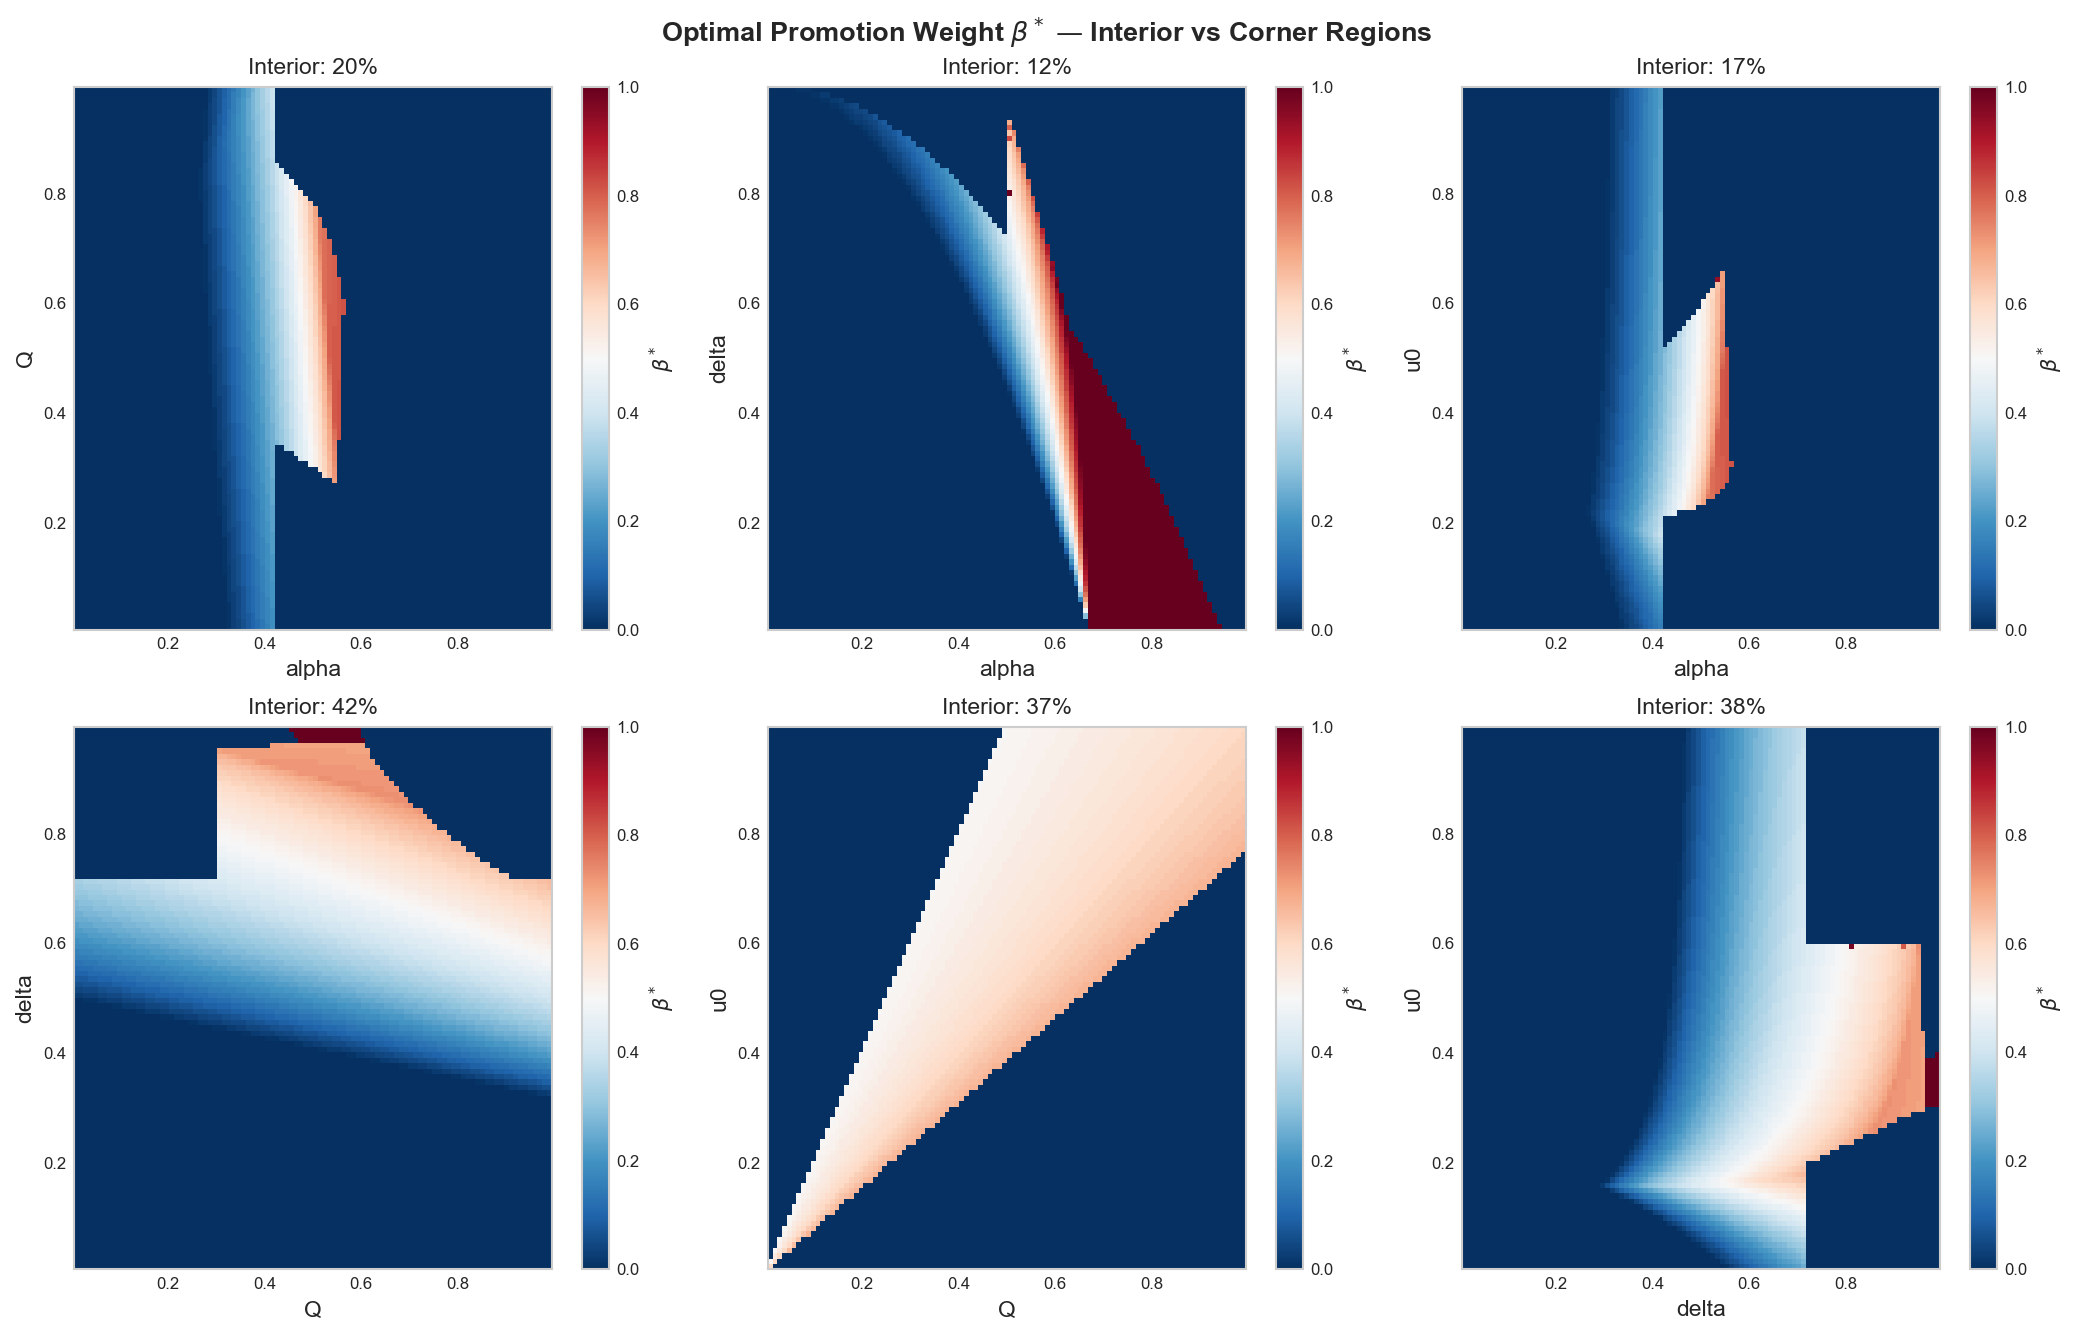
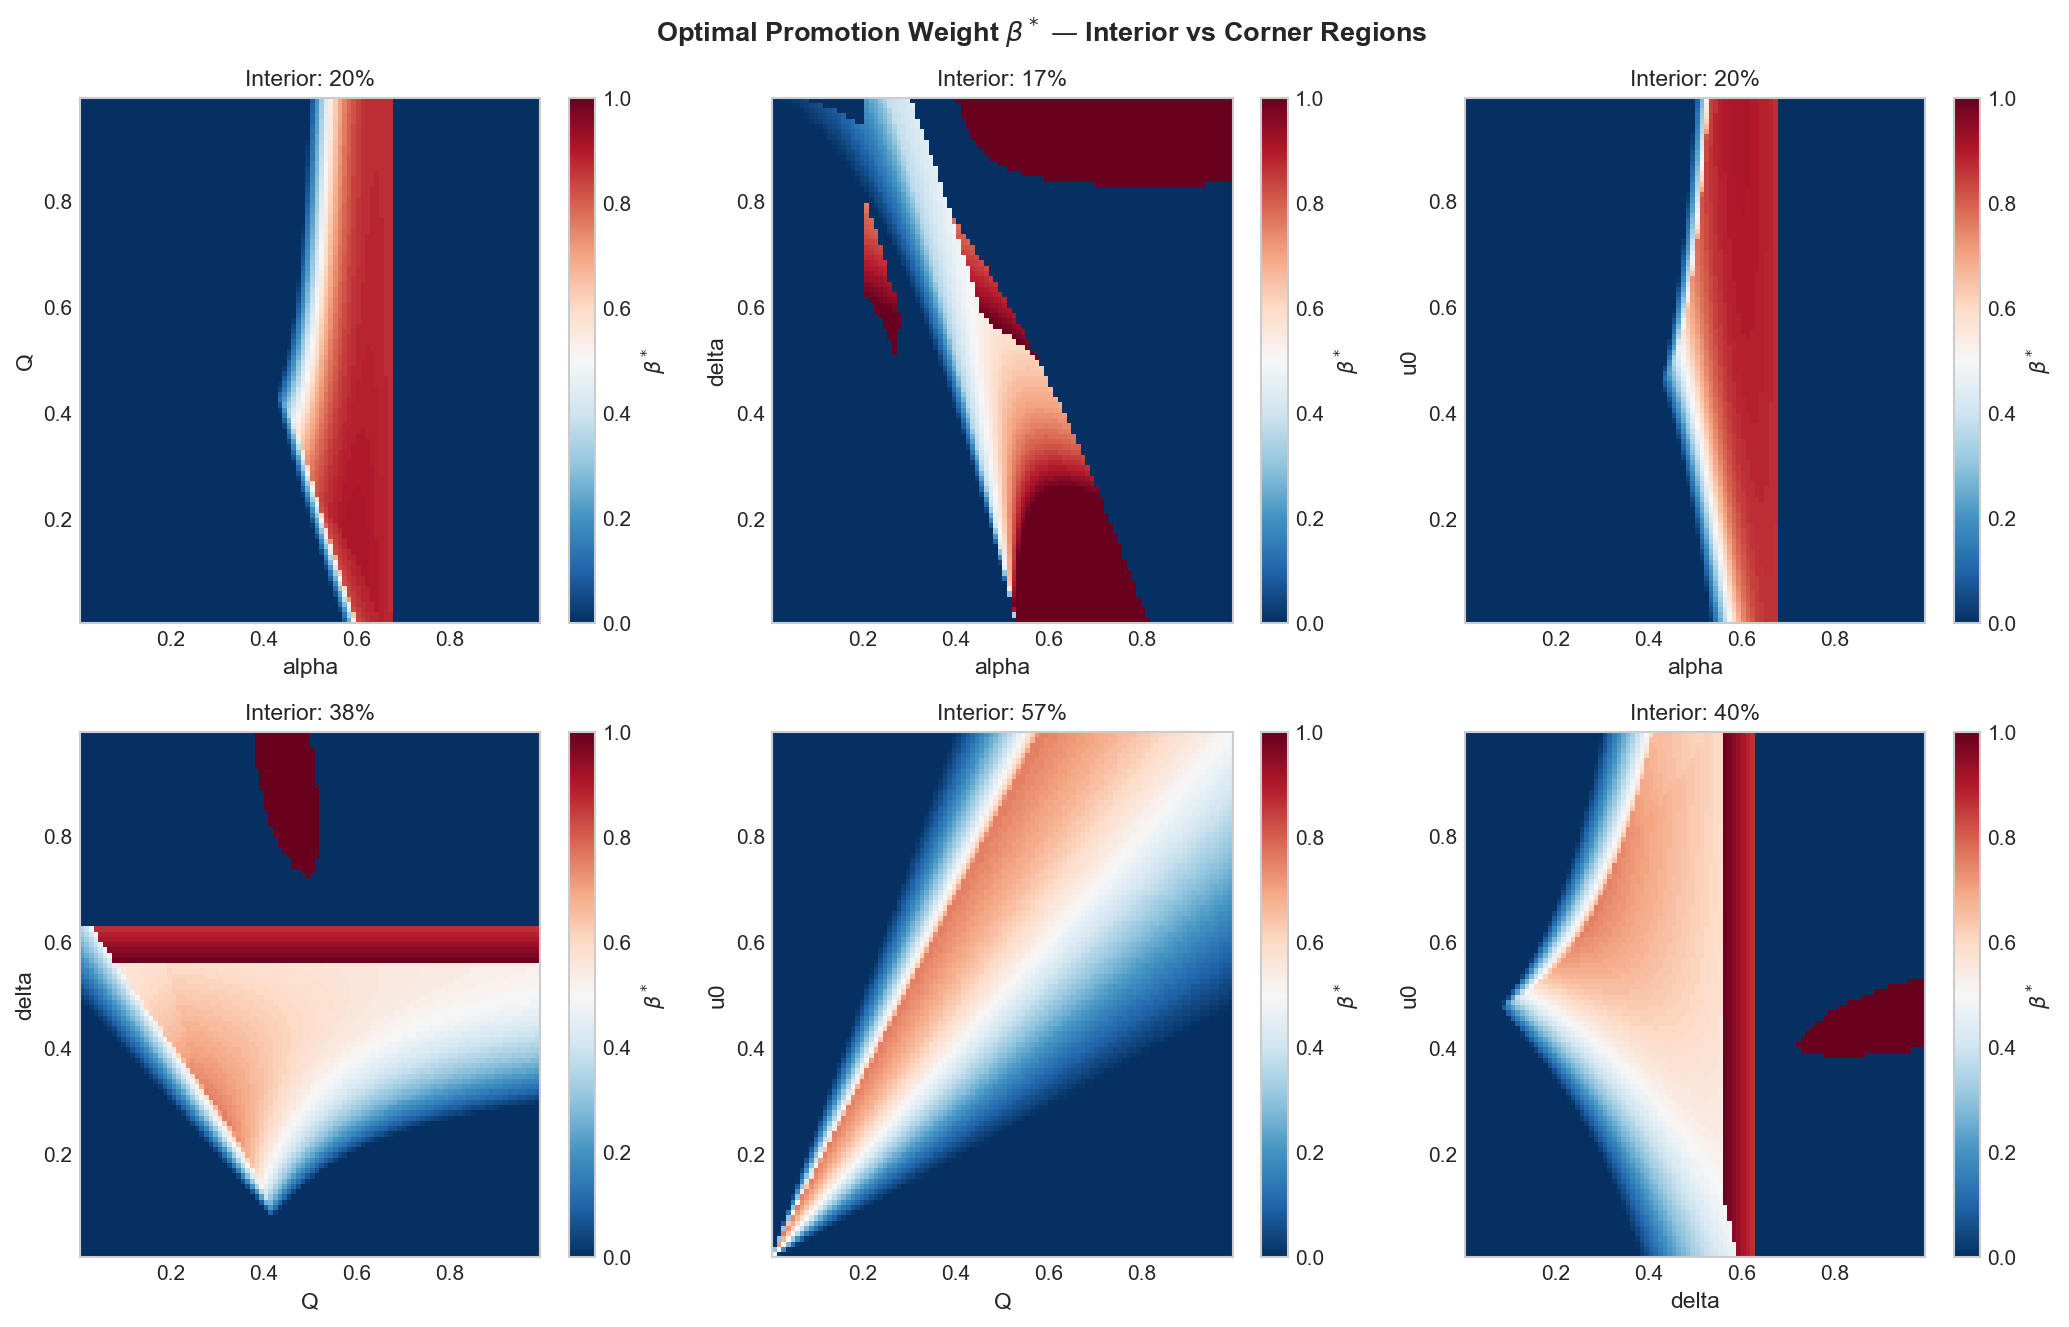
good

diff --git a/params.py b/params.py
@@ -5,8 +5,8 @@ Keys match the keyword arguments of model.platform_utility_vec.
 
 BASELINE = {
     'alpha': 0.5,   # AI learning efficiency
-    'Q':     0.3,   # AI baseline content quality
-    'delta': 0.8,   # Platform algorithmic sensitivity
-    'u0':    0.6,   # Consumer outside option
-    't':     10.0,   # Consumer transportation cost (held fixed)
+    'Q':     0.4,   # AI baseline content quality
+    'delta': 0.3,   # Platform algorithmic sensitivity
+    'u0':    0.5,   # Consumer outside option
+    't':     3.0,   # Consumer transportation cost (held fixed)
 }
